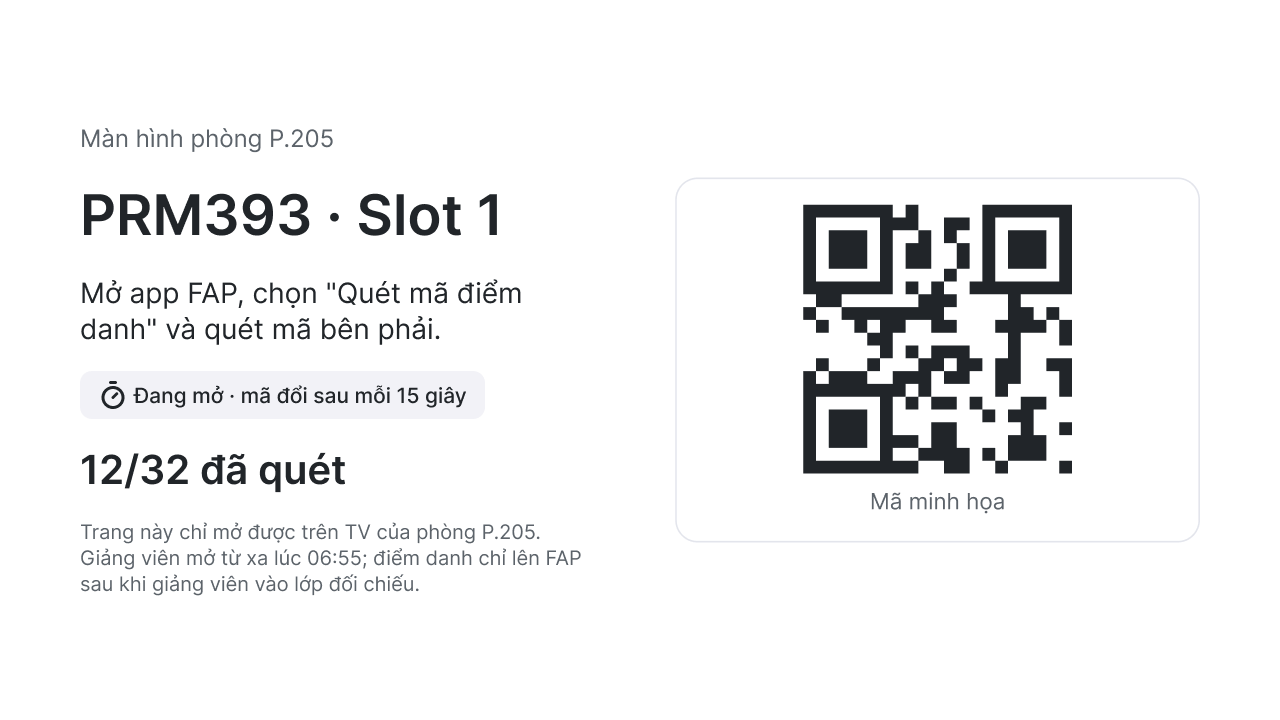
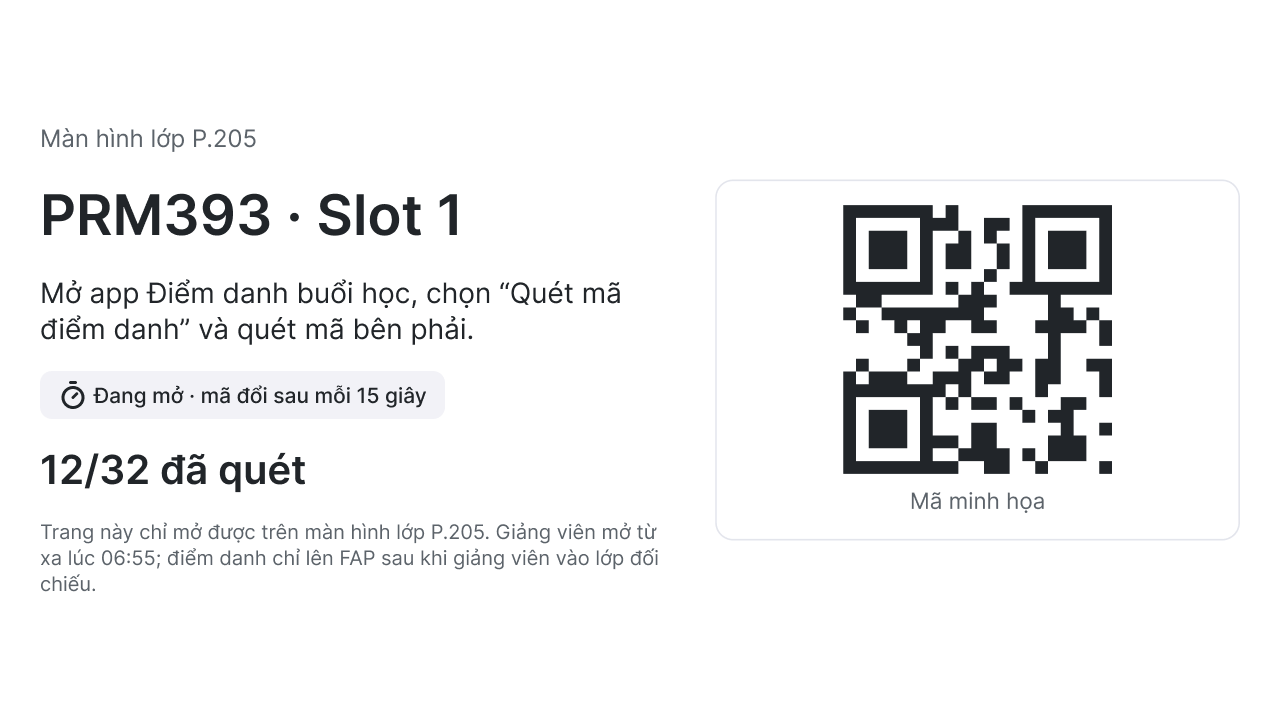
design, figma: đợt 5 trên Figma (CR-49..CR-53)
- Ngoặc kép cong, gạch ngang khoảng giờ, "gửi cô Lan Anh" trên trang 03, 05, 06
- SC-01 bỏ chú thích lặp; CMP-08 thành component set Có nút / Không có nút; frame SC-02 Trống
- Trang 01: FL-1 thêm hai điểm rẽ Laptop và GV đã ở trong lớp, SC-01 vào FL-1 và FL-2, mục tiêu theo D-29
- Mô tả CMP-14 theo D-27; ghi chú có text style; frame web dùng biến Scale
- Tài liệu: screen-spec, handoff, DESIGN.md (CMP-10 đủ 13 trạng thái), design-decisions (đo lại 72 frame), final-ui-review, ma trận, figma-build mục 9; ảnh FL-1, FL-2, SC-01, SC-02, P.205
- AI-28 đổi mã critique bắt đầu từ CR-54

Claude-Session: https://claude.ai/code/session_01MPJuKeLL2fQwoXmpsr75wd

diff --git a/handoff/flutter-handoff.md b/handoff/flutter-handoff.md
@@ -108,7 +108,7 @@ Thẻ dùng `Card(elevation: 0)` cộng viền 1 dp `outlineVariant` và `AppSha
 | CMP-07 Loading · Skeleton thẻ slot | Widget riêng `SlotCardSkeleton` | Khối màu `outlineVariant` theo đúng hình thẻ slot. Không chạy hiệu ứng nhấp nháy khi `MediaQuery.disableAnimations` là true |
 | CMP-07 Loading · Skeleton list | Widget riêng `StudentRowSkeleton` | Cho danh sách lớp ở SC-03 lúc mới mở |
 | CMP-07 Loading · Spinner | `CircularProgressIndicator` giữa màn + chữ | SC-11 đang xác thực |
-| CMP-08 Empty state | Widget riêng `EmptyState(icon, title, message, action)` | Một nút Secondary |
+| CMP-08 Empty state · Có nút, Không có nút | Widget riêng `EmptyState(icon, title, message, action)`, `action` có thể null | Có nút: một nút Secondary (SC-07, SC-14). Không có nút: SC-02, SC-09 khi không có việc gì để làm tiếp |
 | CMP-09 Error state · Mã hết hạn, Mất mạng | Widget riêng `ErrorState(icon, title, cause, action)` | Tiêu đề, nguyên nhân bằng lời thường, một nút thử lại |
 | CMP-10 Status chip · 13 trạng thái | Widget riêng `StatusChip(status)` | Không dùng `Chip` vì chip này không bấm được. `Container` bo `AppRadius.md`, `Row(Icon 20, Text labelLarge)`. Bọc `Semantics(label: 'Trạng thái: Có mặt')` |
 | CMP-11 Student row · 5 trạng thái | `ListTile` | `leading`: `CircleAvatar` 40 (ảnh FAP, không có ảnh thì chữ cái đầu). `title` `bodyLarge`, `subtitle` `mono` màu `onSurfaceVariant`, `trailing` `StatusChip`. `minVerticalPadding` để cao ít nhất 64 |
@@ -187,7 +187,7 @@ Mỗi màn có 6 mục theo đề bài. Tên frame trong ngoặc kép là tên f
 
 ### SC-01 · Đăng nhập
 
-1. **Bố cục.** `Scaffold` (nền `canvas`, không có app bar) → `SafeArea` → `Padding` ngang `s4` → `Column`: vùng thương hiệu canh giữa (biểu tượng 64 bo `xl`, khoảng `s4`, tiêu đề `titleLarge`, khoảng `s2`, dòng phụ `bodyMedium` màu `onSurfaceVariant`) → `Spacer` → banner lỗi (nếu có) → khoảng `s4` → dòng hướng dẫn `bodyMedium` canh giữa → khoảng `s3` → nút → khoảng `s4` → chú thích `bodyMedium` canh giữa → khoảng `s6`. Khi chữ lớn, cả cột nằm trong `SingleChildScrollView` và `Spacer` được thay bằng khoảng `s8`.
+1. **Bố cục.** `Scaffold` (nền `canvas`, không có app bar) → `SafeArea` → `Padding` ngang `s4` → `Column`: vùng thương hiệu canh giữa (biểu tượng 64 bo `xl`, khoảng `s4`, tiêu đề `titleLarge`, khoảng `s2`, dòng phụ `bodyMedium` màu `onSurfaceVariant`) → `Spacer` → banner lỗi (nếu có) → khoảng `s4` → dòng hướng dẫn `bodyMedium` canh giữa → khoảng `s3` → nút → khoảng `s6`. Khi chữ lớn, cả cột nằm trong `SingleChildScrollView` và `Spacer` được thay bằng khoảng `s8`.
 2. **Component.** CMP-01 Button · Variant=Primary (Default, Loading); banner lỗi dùng nền `errorContainer` (cùng kiểu với CMP-12 nhưng màu danger).
 3. **Trạng thái.** Mặc định (“SC-01 · Đăng nhập”). Đang đăng nhập (“SC-01 · Đăng nhập · Đang đăng nhập (CMP-01 Loading)”): nút ở State=Loading, `Semantics` đọc “Đang đăng nhập”. Lỗi email (“SC-01 · Đăng nhập · Lỗi tài khoản”): banner hiện email vừa dùng. Lỗi mạng: dùng cùng vị trí banner với nội dung “Chưa kết nối được. Kiểm tra mạng rồi thử lại.”
 4. **Tương tác.** Chạm “Đăng nhập bằng Google” → mở luồng Google Sign-In của hệ thống. Kết quả trả về email; máy chủ tra email trong danh sách của trường: giảng viên (email @fpt.edu.vn) hoặc sinh viên (email đã đăng ký với trường, thường là Gmail cá nhân, CR-41). Email không có trong danh sách → hiện banner lỗi, đăng xuất khỏi Google để người dùng chọn tài khoản khác ở lần chạm sau. Người dùng hủy hộp chọn tài khoản → không hiện lỗi.
@@ -198,7 +198,7 @@ Mỗi màn có 6 mục theo đề bài. Tên frame trong ngoặc kép là tên f
 
 1. **Bố cục.** `Scaffold` → `AppBar` (CMP-05 Top-level: “Hôm nay” + ngày giờ) → `RefreshIndicator` → `CustomScrollView`, padding ngang `s4`: cho mỗi nhóm khác rỗng theo thứ tự “Đang diễn ra”, “Sắp tới”, “Đã xong”: tiêu đề nhóm (`titleMedium` w600 + “ · n” màu `onSurfaceVariant`), khoảng `s3`, các thẻ cách nhau `s3`; giữa các nhóm khoảng `s6` → `bottomNavigationBar` CMP-04. Cuộn: toàn bộ danh sách thẻ.
 2. **Component.** CMP-05 · Top-level; CMP-03 Card (thẻ slot); CMP-10 Status chip · Giờ slot (đang diễn ra), Giờ slot · khác (sắp tới, đã xong), Chưa điểm danh, Chờ điền lên FAP, Đã lên FAP; CMP-01 · Primary “Mở điểm danh” và · Secondary “Mở từ xa” trên thẻ slot kế tiếp; CMP-07 · Skeleton thẻ slot; CMP-04 · Vai trò=Giảng viên, Tab=Hôm nay, có huy hiệu.
-3. **Trạng thái.** Đang tải: 3 `SlotCardSkeleton` (“… · Đang tải (CMP-07 skeleton)”). Có dữ liệu: 7 frame theo giờ trong ngày (xem `design/screen-spec.md`). Trống (không có slot hôm nay): CMP-08 “Hôm nay thầy không có slot nào”, không có nút; chưa có frame. Lỗi tải: CMP-09 · Mất mạng thay cho danh sách, nút “Thử lại”; nếu đã có dữ liệu cũ thì giữ danh sách và hiện `SnackBar` “Chưa cập nhật được”.
+3. **Trạng thái.** Đang tải: 3 `SlotCardSkeleton` (“… · Đang tải (CMP-07 skeleton)”). Có dữ liệu: 7 frame theo giờ trong ngày (xem `design/screen-spec.md`). Trống (không có slot hôm nay): CMP-08 · Không có nút, “Hôm nay thầy không có slot nào” (frame “SC-02 · Lịch dạy hôm nay · Trống (CMP-08)”). Lỗi tải: CMP-09 · Mất mạng thay cho danh sách, nút “Thử lại”; nếu đã có dữ liệu cũ thì giữ danh sách và hiện `SnackBar` “Chưa cập nhật được”.
 4. **Tương tác.** Kéo xuống để tải lại. “Mở điểm danh” → tạo phiên tại lớp. “Mở từ xa” → tạo phiên từ xa (mã chỉ hiện trên màn hình lớp, tức TV phòng, D-24). Nút trên thẻ chỉ bật trong khoảng 15 phút trước giờ vào slot tới hết giờ slot; ngoài khoảng đó thẻ không có nút. Chạm thẻ “Chờ điền lên FAP” → mở SC-06 ở trạng thái chờ để thử điền lại. Chạm thẻ có phiên đang mở hoặc chờ xác nhận → mở lại SC-03 hoặc SC-04. Thẻ sắp tới khác và thẻ đã lên FAP chỉ để xem, không bấm được (không có `InkWell`). Chạm tab “Báo sai” → SC-07.
 5. **Điều hướng.** Vào từ: SC-01, SC-06 (“Về lịch dạy”), SC-07 (tab), SC-08 (qua SC-07). Đi tới: SC-03 (`push`), SC-06, SC-07 (đổi tab). Back: thoát ứng dụng.
 6. **Ràng buộc.** Tên môn và phòng `maxLines: 1` với dấu “…”; dòng mô tả cho xuống tối đa 2 dòng. Chip giờ và chip trạng thái nằm trong `Wrap` (khoảng `s2`) để xuống dòng khi chữ lớn. Huy hiệu tối đa “99+”. Hai nút trên thẻ chia đôi chiều rộng; khi chữ lớn làm nút cao quá 2 dòng thì xếp dọc. Màn rộng: thẻ rộng tối đa 600.

diff --git a/design/design-decisions.md b/design/design-decisions.md
@@ -6,7 +6,7 @@
 | Phiên bản | v1 (14/10/2026) |
 | Trạng thái | Chờ thien duyệt |
 | Đầu vào | `process/decision-log.md` (D-xx do thien chốt), `design/DESIGN.md` v2 (NT-1..NT-7), `design/final-ui-review.md` (CR-26..CR-40), Figma trang 03 và 06 sau IT-3c |
-| Cách đo | Số liệu ở mục 2 do Claude đo bằng script đọc file Figma ngày 14/10/2026 (68 frame 360 × 800 và 3 frame 412 × 915 trên trang 03, 146 vùng bấm trên trang 06). Không có số nào ước lượng bằng mắt |
+| Cách đo | Số liệu ở mục 2 do Claude đo bằng script đọc file Figma ngày 14/10/2026 (68 frame 360 × 800 và 3 frame 412 × 915 trên trang 03, 146 vùng bấm trên trang 06). Không có số nào ước lượng bằng mắt. Ngày 15/10 trang 03 thêm frame “SC-02 · Trống” và bỏ dòng chú thích lặp ở SC-01 (CR-50, CR-51); đo lại phần đếm được: 72 frame điện thoại (69 khung 360 × 800, 3 khung 412 × 915), 72/72 dùng Auto Layout, chữ nhỏ nhất 14. Bảng tương phản 2.1 chưa đo lại; frame mới chỉ dùng cặp màu đã có trong bảng (CMP-08 như ở SC-07, SC-14) |
 
 ## 1. Mười quyết định quan trọng nhất
 
@@ -17,7 +17,7 @@ Mỗi quyết định ghi: chọn gì, vì sao (theo persona, heuristic hoặc r
 - **Chọn:** FAP vẫn là nơi lưu kết quả chính thức. Ứng dụng thu kết quả, rồi một extension trên laptop của giảng viên tự điền vào trang điểm danh của FAP.
 - **Vì sao:** Giảng viên đã quen FAP và đã mở FAP trên laptop ở mọi buổi (O-01.10). Không có bằng chứng FAP cho kết nối từ ngoài. Đây cũng là thiết kế gốc của thien. Hệ quả là ứng dụng phải nói thật kết quả đã lên FAP chưa (NT-5, Nielsen #1: hiển thị trạng thái hệ thống).
 - **Bỏ:** ghi thẳng qua API (giả định không kiểm chứng được); không kết nối gì (giảng viên phải nhập tay lại).
-- **Thấy ở:** SC-06 “Chờ điền lên FAP” và “Đã lên FAP”; SC-02 07:15 và 07:17; SC-01 dòng “Ứng dụng không thay FAP”.
+- **Thấy ở:** SC-06 “Chờ điền lên FAP” và “Đã lên FAP”; SC-02 07:15 và 07:17; SC-01 dòng phụ “Ứng dụng bổ trợ FAP…”.
 
 ### DD-2 · QR chiếu chung, cả lớp quét cùng lúc, không đọc tên (D-19)
 
@@ -86,12 +86,12 @@ Mỗi quyết định ghi: chọn gì, vì sao (theo persona, heuristic hoặc r
 
 | Mục (đề bài, mục 7) | Kết quả | Bằng chứng |
 |---|---|---|
-| Chữ thường tương phản ít nhất 4,5:1, chữ lớn 3:1 | **Đạt** | Mọi cặp màu chữ trên nền trên 71 frame của trang 03 đạt ít nhất 5,24:1 (mục 2.1, đo lại 14/10 sau khi vẽ thêm 8 trạng thái) |
+| Chữ thường tương phản ít nhất 4,5:1, chữ lớn 3:1 | **Đạt** | Mọi cặp màu chữ trên nền trên 71 frame của trang 03 (đo 14/10) đạt ít nhất 5,24:1 (mục 2.1, đo lại 14/10 sau khi vẽ thêm 8 trạng thái) |
 | Thành phần điều khiển tương phản ít nhất 3:1 (WCAG 1.4.11) | **Đạt** | Nút chính `primary` trên nền trắng 6,54:1; viền nút phụ và ô nhập `border-control` 4,16:1 trên trắng, 3,59:1 trên `canvas`; phần đã quét của thanh tiến độ trên nền thanh 5,01:1 (mục 2.2) |
-| Vùng chạm ít nhất 48 × 48 dp | **Đạt** | Mọi nút CMP-01 đang hiện trên 71 frame của trang 03 cao ít nhất 48 dp; 146 vùng có hành động chạm trên trang 06, không vùng nào nhỏ hơn 48 × 48 |
-| Chữ thân ít nhất 14 sp | **Đạt** | Cỡ chữ nhỏ nhất trên 71 frame của trang 03 là 14, kể cả nhãn thanh điều hướng và huy hiệu số |
+| Vùng chạm ít nhất 48 × 48 dp | **Đạt** | Mọi nút CMP-01 đang hiện trên các frame của trang 03 cao ít nhất 48 dp; 146 vùng có hành động chạm trên trang 06, không vùng nào nhỏ hơn 48 × 48 |
+| Chữ thân ít nhất 14 sp | **Đạt** | Cỡ chữ nhỏ nhất trên 72 frame điện thoại của trang 03 là 14 (đo lại 15/10), kể cả nhãn thanh điều hướng và huy hiệu số |
 | Không truyền thông tin chỉ bằng màu | **Đạt** | Chip trạng thái luôn có chữ và biểu tượng (NT-2). Thanh tiến độ đi cùng số “28/32”. Chip giờ đang diễn ra có thêm chấm và nằm dưới tiêu đề nhóm “Đang diễn ra”. Tab đang chọn có nền chỉ báo và chữ đậm, không chỉ đổi màu. Lượt quét bị gắn cờ có lý do bằng chữ (CR-24) |
-| Layout dùng Auto Layout và constraint | **Đạt** | 71/71 frame màn hình trên trang 03 dùng Auto Layout; 15 component set trên trang 05 dựng bằng Auto Layout và biến token |
+| Layout dùng Auto Layout và constraint | **Đạt** | 72/72 frame điện thoại trên trang 03 dùng Auto Layout (đo lại 15/10); 15 component set trên trang 05 dựng bằng Auto Layout và biến token |
 | Kiểm ở 360 dp và 412 dp | **Đạt** | Mọi màn ở 360 × 800. Ba màn khó nhất dựng lại ở 412 × 915: SC-03 (danh sách dài nhất), SC-06 (nhiều nhóm và chip), SC-09 buổi tối (banner, link). Không chữ nào bị cắt, nút giữ 48 dp, thanh dưới bám đáy. Ảnh: `assets/figma/a11y-412-SC-03.png`, `a11y-412-SC-06.png`, `a11y-412-SC-09.png` |
 | Màn rộng từ 600 dp | Mô tả trong handoff | Đề bài không yêu cầu thiết kế; cách đổi bố cục ghi ở `handoff/flutter-handoff.md` |
 

diff --git a/design/figma-build.md b/design/figma-build.md
@@ -17,7 +17,7 @@
 |---|---|---|
 | 01 User Flow | FL-1, FL-2, FL-3 vẽ lại từ `ux/user-flow.md`, có thêm nhánh mở từ xa (K1b), chưa cấp quyền camera và mất mạng khi gửi báo sai. Mỗi ô màn hình có mã SC màu xanh, gạch chân, bấm vào là nhảy tới đúng frame (đúng biến thể) trên trang 03. Khoảng cách giữa các cột là 120 px để nhãn nhánh (Có, Vắng, Thành công, Đã sửa...) nằm giữa mũi tên, không đè lên ô (thien góp ý 14/10) | `FL-1-user-flow.png`, `FL-2-user-flow.png`, `FL-3-user-flow.png` |
 | 02 Wireframe | 15 khung lo-fi, một khung cho mỗi SC | — |
-| 03 Final UI | 68 frame 360 × 800 (15 màn và 53 biến thể trạng thái, đặt cùng hàng bên phải màn gốc), 1 frame web 1280 × 720 “Màn hình lớp P.205”, và hàng kiểm 412 dp (3 frame 412 × 915). Tên frame (Figma hiện phía trên) mang mã truy vết, dưới mỗi frame có một ghi chú trỏ về TC, NT, CR và giờ trong ngày | `SC-01-…png` tới `SC-15-…png`, `SC-03-mo-tu-xa.png`, `SC-03-man-hinh-phong-p205.png`, `SC-11-sheet-khong-quet-duoc.png`, `SC-02-dang-tai-skeleton.png`, `SC-07-da-xu-ly-het.png`, `SC-09-bao-sai-co-ket-qua.png`, `SC-03-laptop-chua-ket-noi.png`, `SC-04-so-quet-nho-hon.png`, `SC-06-con-luot-can-xem.png`, `SC-08-da-tu-choi.png`, `a11y-412-*.png` |
+| 03 Final UI | 69 frame 360 × 800 (15 màn và 54 biến thể trạng thái, đặt cùng hàng bên phải màn gốc), 1 frame web 1280 × 720 “Màn hình lớp P.205”, và hàng kiểm 412 dp (3 frame 412 × 915). Tên frame (Figma hiện phía trên) mang mã truy vết, dưới mỗi frame có một ghi chú trỏ về TC, NT, CR và giờ trong ngày | `SC-01-…png` tới `SC-15-…png`, `SC-03-mo-tu-xa.png`, `SC-03-man-hinh-phong-p205.png`, `SC-11-sheet-khong-quet-duoc.png`, `SC-02-dang-tai-skeleton.png`, `SC-07-da-xu-ly-het.png`, `SC-09-bao-sai-co-ket-qua.png`, `SC-03-laptop-chua-ket-noi.png`, `SC-04-so-quet-nho-hon.png`, `SC-06-con-luot-can-xem.png`, `SC-08-da-tu-choi.png`, `a11y-412-*.png` |
 | 04 Design System | Biến màu (Light bắt buộc, Dark tùy chọn), 7 text style Inter, khoảng cách, góc bo, 4 effect style, xem trước Light/Dark | `page-04-design-system.png` |
 | 05 Components | 35 icon Lucide và 15 component set CMP-01..CMP-15 dựng bằng Auto Layout, variant và biến token. CMP-04 có thêm 2 thuộc tính “Có báo sai mới” và “Số báo sai” | `page-05-components.png` |
 | 06 Prototype | 12 hàng, 12 điểm bắt đầu, 84 frame, xem mục 3 | — |
@@ -157,3 +157,12 @@ Chi tiết phản biện ở `design/final-ui-review.md` (CR-26 đến CR-39).
 | SC-08 · Đã từ chối (Giữ Vắng) | Banner trung tính nói sinh viên đã nhận lý do và đường khiếu nại; một nút “Về danh sách báo sai” |
 
 Trang 01: ô “Có người chưa quét được” của FL-1 thêm nhãn “SC-04 · nhỏ hơn” nhảy tới frame mới, đổi từ viền đứt (việc của hệ thống) sang viền liền (màn giảng viên thao tác). Cả 8 frame đã được nối vào prototype trang 06 (thien yêu cầu lúc 16:27): 6 frame chèn vào các hàng có sẵn, 2 hàng mới cho nhánh lớn hơn còn cờ và laptop chưa kết nối. Xem bảng mục 3.
+
+## 9. Sửa theo bản chấm độc lập, đợt 5 (15/10, CR-49..CR-53)
+
+| Trang | Thay đổi |
+|---|---|
+| 01 User Flow | FL-1 thêm điểm rẽ “Laptop trong phòng đã kết nối?” (nhánh Chưa → “SC-03 · Chưa kết nối”, liên kết tới frame laptop chưa kết nối) và “Giảng viên đã ở trong lớp?” (nhánh Chưa → “SC-02 · Chờ xác nhận”, mũi tên đứt “Thầy vào lớp” sang SC-04). Khung FL-1 rộng ra 4 760. FL-1 và FL-2 thêm ô SC-01 với nhánh “Chưa đăng nhập”. Dòng mục tiêu FL-1 đo theo D-29. Ảnh: `assets/figma/FL-1-user-flow.png`, `FL-2-user-flow.png` |
+| 03 Final UI | Frame mới “SC-02 · Lịch dạy hôm nay · Trống (CMP-08)” (`SC-02-trong.png`); bỏ chú thích lặp ở ba trạng thái SC-01; ngoặc cong và gạch ngang khoảng giờ trên 82 lớp chữ; ghi chú gắn `type/body-md`; frame web dùng biến `space/*`, `radius/2xl` |
+| 05 Components | CMP-08 thành component set “Hành động = Có nút / Không có nút”; mô tả CMP-14 viết lại theo D-27; bỏ mã `&quot;` trong mô tả CMP-04, CMP-15 |
+| 06 Prototype | Cùng các sửa chữ như trang 03 (66 lớp chữ); bỏ chú thích lặp ở SC-01. Frame SC-02 Trống không vào prototype vì câu chuyện ngày 14/10 có slot |

diff --git a/design/final-ui-review.md b/design/final-ui-review.md
@@ -47,3 +47,8 @@ Nguồn: một phiên Claude riêng chấm lại toàn bộ bài theo đề, gui
 | CR-46 | SC-08 của Hoàng Mai Linh để “Sửa thành Có mặt” là nút chính, trong khi bằng chứng (vắng lúc kiểm tra ngẫu nhiên) nói ngược lại. Nút chính đang gợi ý quyết định | Khi bằng chứng ngược với lời báo, hai nút cùng mức (Secondary). Khi không có bằng chứng ngược (Vy), “Sửa thành Có mặt” vẫn là nút chính (trang 03, 06) |
 | CR-47 | Gọi tên lệch nhau: “Lượt quét” và “Giờ quét” cho cùng một ô; “màn chiếu”, “TV phòng”, “màn hình phòng”, “màn hình lớp” cho cùng một màn hình; trang trên màn hình lớp bảo “Mở app FAP” trong khi app tên “Điểm danh buổi học” (NT-7); SC-15 có ba tên; DESIGN.md ghi “31/32” trong khi màn hiện 28/32 | Nhãn ô thống nhất “Giờ quét”. Chữ trên giao diện thống nhất “màn hình lớp” theo CR-38 (D-24 vẫn ghi phần cứng là TV phòng). Trang trên màn hình lớp ghi “Mở app Điểm danh buổi học, chọn ”Quét mã điểm danh“”. SC-15 thống nhất “Hướng dẫn đơn khiếu nại”. DESIGN.md đổi sang “Đã quét 28/32” (trang 02, 03, 06 và tài liệu) |
 | CR-48 | Trang 06 có 21 nút bật nhưng không phản hồi; slide ghi “2 nút” | Nối 9 nút có đích đúng: hai thẻ kiểm tra ngẫu nhiên còn lại ở hai nhánh SC-05 (4 thẻ), “Đóng QR và kiểm tra” ở SC-03 “Laptop chưa kết nối”, ba liên kết trên thẻ SC-09 tới SC-14, “Ghi tay thêm sinh viên” ở SC-06 nhánh NT-3. Ba nút nằm ở trạng thái đang tải nên không cần chạm. Còn 9 nút ngoài kịch bản, có ghi lý do: ở SC-08, “Từ chối” của Vy và “Sửa thành Có mặt” của Linh (mỗi nút hai lần), vì mỗi ca chỉ vẽ một kết cục và cả hai kết cục đã có ở hai ca; ở SC-06 nhánh NT-3, bốn nút Có mặt/Vắng trên hai dòng cần xem, vì màn sau khi chọn chưa được vẽ cho nhánh này; “Chiếu tạm mã từ điện thoại” ở SC-03, vì chưa vẽ màn chiếu mã trên điện thoại. Slide 11 và 12 sửa theo con số này |
+| CR-49 | Ngoặc kép thẳng và cong lẫn nhau trên giao diện và ghi chú; khoảng giờ viết “07:00 - 09:15”; “gửi Cô Lan Anh” viết hoa giữa câu | Đổi sang ngoặc cong “…”, gạch ngang ngắn không cách “07:00–09:15”, “gửi cô Lan Anh” trên trang 03, 05, 06 (152 lớp chữ); ghi quy ước ở `process/conventions.md` |
+| CR-50 | SC-01 có hai câu gần như lặp: dòng phụ “Ứng dụng bổ trợ FAP…” và chú thích cuối “Ứng dụng không thay FAP…” (UI Simplicity A4) | Bỏ chú thích cuối ở cả ba trạng thái SC-01 trên trang 03 và 06 |
+| CR-51 | CMP-08 là component rời, không phải component set như 14 component còn lại; SC-02 ngày không có slot chỉ mô tả bằng chữ | CMP-08 thành component set hai biến thể “Có nút” và “Không có nút”; vẽ frame “SC-02 · Lịch dạy hôm nay · Trống (CMP-08)” |
+| CR-52 | FL-1 trên trang 01 thiếu nhánh “Laptop trong phòng đã kết nối?” và “Giảng viên đã ở trong lớp?” mà sơ đồ Mermaid có; SC-01 không có trong sơ đồ FL-1, FL-2; dòng mục tiêu FL-1 còn đo “mở QR tới xác nhận”, trái D-29 | Thêm hai điểm rẽ và hai ô kết quả (có liên kết tới frame SC-03 “Laptop chưa kết nối” và SC-02 “Chờ xác nhận”), thêm SC-01 vào FL-1, FL-2 ở cả trang 01 và `ux/user-flow.md`; sửa dòng mục tiêu theo D-29 |
+| CR-53 | Mô tả CMP-14 trên trang 05 còn ghi thanh tiến độ màu `color/text` (trước D-27); mô tả CMP-04, CMP-15 lộ mã `&quot;`; 10 ghi chú trang 03 không gắn text style; frame web “Màn hình lớp P.205” dùng khoảng cách cứng và số lẻ (12,8; 25,6) | Viết lại mô tả theo D-27; gắn `type/body-md` cho ghi chú, `type/title-md` cho tiêu đề nhóm 412 dp; gắn biến `space/3`, `space/6`, `space/8`, `radius/2xl` cho frame web |

diff --git a/process/traceability-matrix.md b/process/traceability-matrix.md
@@ -73,6 +73,7 @@ Nguồn (S/H, R, O, T, Survey) → Phát hiện F → Nhu cầu N → Persona P 
 | CR-41 (thien chỉ ra, 14/10) | Nielsen #9; sự thật FAP: sinh viên K19 trở đi đăng nhập bằng email cá nhân đã đăng ký | Accept: “Đăng nhập bằng Google”, nhận cả @fpt.edu.vn và Gmail đã đăng ký | — | SC-01 (trang 02, 03, 06) |
 | CR-42 (thien hỏi, 14/10) | Nielsen #5; D-21 B | Accept: QR đóng lúc giờ vào slot + 5 phút, nhận cả mã liền trước | D-28 | SC-03 (trang 03, 06) |
 | CR-43..CR-48 (bản chấm độc lập, 15/10) | Nielsen #4 (nhất quán), #5; D-28; NT-7; yêu cầu thứ tự trang của đề | Accept, sửa luôn | D-24, D-28 | SC-04, SC-06, SC-08, SC-11, SC-14, SC-15, trang web màn hình lớp (`design/final-ui-review.md` mục 4) |
+| CR-49..CR-53 (bản chấm độc lập, đợt 5, 15/10) | Nielsen #4, #8; UI Simplicity A4; D-27; D-29 | Accept, sửa luôn | D-27, D-29 | SC-01, SC-02, FL-1, FL-2 (trang 01), CMP-08, CMP-14 (trang 05), trang 03, 06 |
 
 ## 5. Kiểm tra độ phủ (chạy trước khi nộp)
 
@@ -81,5 +82,5 @@ Chạy ngày 15/10/2026 trên bản repo hiện tại.
 - [x] Mọi SC thuộc ít nhất một FL (rubric: Information architecture). FL-1 có SC-01..SC-06, FL-2 có SC-01 và SC-09..SC-15, FL-3 có SC-07 và SC-08 (mục 2). Đủ 15 màn.
 - [x] Mọi FL phục vụ ít nhất một N của Primary Persona. FL-1 phục vụ N-04, N-03, N-11 (P-01). FL-3 phục vụ N-01 phần giảng viên sửa (P-01). FL-2 chủ yếu phục vụ P-02; nó nối với P-01 qua N-01, vì lời báo sai sinh viên gửi ở FL-2 là đầu vào của FL-3.
 - [x] Mọi N có ít nhất một bằng chứng không phải Assumed, hoặc ghi rõ cách kiểm chứng. Đạt có điều kiện: N-04 và N-01 có bằng chứng Observed hoặc desk research. N-03, N-06, N-10, N-11 chỉ dựa trên phỏng vấn mô phỏng (Simulated), nên mức của chúng là giả thuyết. Cách kiểm chứng là usability test theo TC-1..TC-7 (`ux/persona.md` mục 11), chưa chạy.
-- [x] Mọi CR quan trọng có quyết định và lý do trỏ về persona, heuristic hoặc ràng buộc. CR-01..CR-48 đều có dòng ở mục 4.
+- [x] Mọi CR quan trọng có quyết định và lý do trỏ về persona, heuristic hoặc ràng buộc. CR-01..CR-53 đều có dòng ở mục 4.
 - [x] Mọi SC có đủ 6 mục trong handoff. `handoff/flutter-handoff.md` có 15 mục SC, mỗi mục đủ 6 phần.

diff --git a/design/screen-spec.md b/design/screen-spec.md
@@ -54,7 +54,7 @@ Trong mục “Trạng thái” của từng màn, trạng thái nào có frame 
 3. Banner lỗi (chỉ ở trạng thái lỗi).
 4. Dòng hướng dẫn “Dùng email bạn đã đăng ký với trường: email @fpt.edu.vn hoặc Gmail cá nhân.”
 5. Nút “Đăng nhập bằng Google”.
-6. Dòng chú thích “Ứng dụng không thay FAP. Kết quả điểm danh vẫn lưu trên FAP.”
+*(Bản trước có thêm dòng chú thích “Ứng dụng không thay FAP…” ở cuối màn; dòng này lặp ý với dòng phụ ở mục 2 nên đã bỏ, CR-50.)*
 
 **Hành động chính.** “Đăng nhập bằng Google”.
 
@@ -85,6 +85,7 @@ Trong mục “Trạng thái” của từng màn, trạng thái nào có frame 
 
 **Trạng thái.**
 - Mặc định 06:58, chưa điểm danh slot 1: frame “SC-02 · Lịch dạy hôm nay”.
+- Trống, ngày không có slot: frame “SC-02 · Lịch dạy hôm nay · Trống (CMP-08)”. CMP-08 biến thể “Không có nút”: “Hôm nay thầy không có slot nào”, vì không có việc gì để làm tiếp (CR-51).
 - Đang tải: frame “SC-02 · Lịch dạy hôm nay · Đang tải (CMP-07 skeleton)”. Skeleton giữ đúng hình thẻ slot để màn không nhảy khi dữ liệu về (CR-28).
 - Chờ điền lên FAP, 07:15: frame “… · Sau slot 1, chờ điền lên FAP”. Dòng mô tả nói lý do và việc cần làm: “Đã xác nhận 07:12. Mở laptop để extension điền lên FAP” (NT-5).
 - Đã lên FAP, 07:17: frame “… · Sau slot 1, đã lên FAP”, dòng mô tả “Đã lên FAP lúc 07:16 · 31 có mặt, 1 vắng”.
@@ -430,4 +431,4 @@ Bản đầu của tài liệu này liệt kê 8 trạng thái có trong `ux/use
 | SC-06 | Còn lượt quét cần xem | “SC-06 · Xem lại và xác nhận · Còn lượt quét cần xem (NT-3)” | FL-1 (NT-3) |
 | SC-08 | Đã từ chối | “SC-08 · Chi tiết báo sai · Đã từ chối (Giữ Vắng)” | FL-3, nhánh từ chối |
 
-Trạng thái lỗi và trạng thái tải mà `ux/user-flow.md` không liệt kê (ví dụ lịch dạy trống, lỗi mạng khi lưu) vẫn chỉ được mô tả bằng chữ ở đây và trong `handoff/flutter-handoff.md`.
+Trạng thái lỗi và trạng thái tải mà `ux/user-flow.md` không liệt kê (ví dụ ngày sinh viên không có buổi học, lỗi mạng khi lưu) vẫn chỉ được mô tả bằng chữ ở đây và trong `handoff/flutter-handoff.md`.

diff --git a/design/DESIGN.md b/design/DESIGN.md
@@ -116,9 +116,9 @@ Chín component bắt buộc của đề bài là CMP-01 đến CMP-09. Componen
 | CMP-05 | App bar | Default, with actions | Tiêu đề trái; nút quay lại; tối đa 1 hành động phải |
 | CMP-06 | Dialog | Confirmation, destructive | Xác nhận gửi lên FAP; xác nhận đóng QR sớm; từ chối báo sai (destructive) |
 | CMP-07 | Loading | Skeleton danh sách, spinner | Skeleton cho danh sách lớp; spinner khi xác thực mã QR |
-| CMP-08 | Empty state | Biểu tượng, thông điệp, một hành động | “Hôm nay không có báo sai nào” |
+| CMP-08 | Empty state | Hai biến thể: Có nút (biểu tượng, thông điệp, một hành động) và Không có nút (khi không có việc gì để làm tiếp) | “Hôm nay không có báo sai nào”; “Hôm nay thầy không có slot nào” |
 | CMP-09 | Error state | Thông điệp, nguyên nhân dễ hiểu, nút thử lại | Mã hết hạn, mất mạng, không có trong danh sách lớp |
-| CMP-10 | Status chip | Có mặt, Vắng, Chưa điểm danh, Chờ xác nhận, Chờ điền lên FAP, Đã lên FAP | Biểu tượng + chữ + nền soft, đúng nghĩa màu của FAP |
+| CMP-10 | Status chip | 13 trạng thái. Điểm danh: Có mặt, Vắng, Chưa điểm danh, Chờ xác nhận, Chờ điền lên FAP, Đã lên FAP, Cần xem, Đã quét. QR và giờ: Giờ slot, Giờ slot · khác, QR đang mở, QR sắp đóng, QR đã đóng | Biểu tượng + chữ + nền soft, đúng nghĩa màu của FAP |
 | CMP-11 | Student row | Đã quét, Chưa quét, Đánh tay, Được chọn kiểm tra, Cờ “Cùng thiết bị” | Ảnh FAP, tên (`body-lg`), mã SV (`mono`, `muted`), giờ quét, chip trạng thái |
 | CMP-12 | Deadline banner | Còn hạn, sắp hết hạn (sau 20:00), đã qua hạn | “Báo sai trước 23:59 hôm nay”; đã qua hạn dẫn sang hướng dẫn đơn |
 | CMP-13 | Report timeline | Đã gửi, giảng viên đã xem, đã sửa, bị từ chối | Dòng thời gian dọc 4 bước, mỗi bước có giờ |

diff --git a/ai/prompts/AI-28-stitch-flow1-and-it3.md b/ai/prompts/AI-28-stitch-flow1-and-it3.md
@@ -107,4 +107,4 @@ Revise this lecturer session screen to show the state right after the QR has clo
 
 ## Sau khi chạy
 
-Claude chạy critique như các vòng trước (Nielsen, WCAG, persona, ít nhất 5 phát hiện), ghi vào `design/stitch-critique-it3.md`, đặt mã từ CR-49. Mỗi phát hiện có quyết định Accept, Modify hoặc Reject và lý do. thien duyệt trên thẻ quyết định. Dòng AI-28 trong `ai/ai-design-log.md` ghi kết quả.
+Claude chạy critique như các vòng trước (Nielsen, WCAG, persona, ít nhất 5 phát hiện), ghi vào `design/stitch-critique-it3.md`, đặt mã từ CR-54 (CR-49..CR-53 đã dùng cho đợt sửa 15/10). Mỗi phát hiện có quyết định Accept, Modify hoặc Reject và lý do. thien duyệt trên thẻ quyết định. Dòng AI-28 trong `ai/ai-design-log.md` ghi kết quả.
